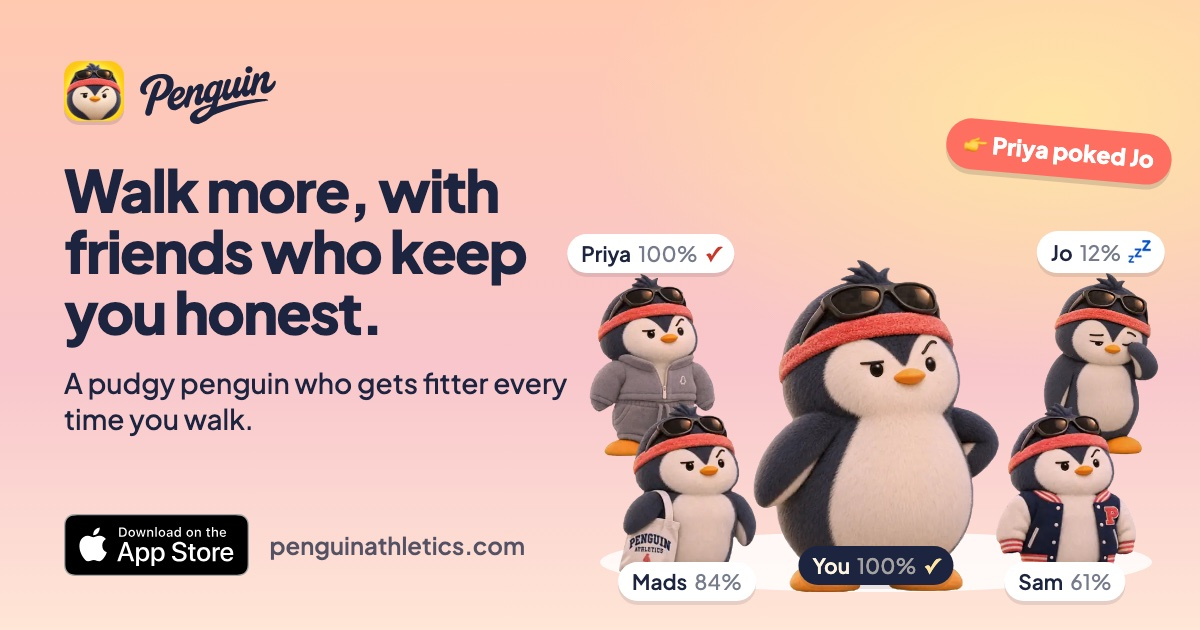
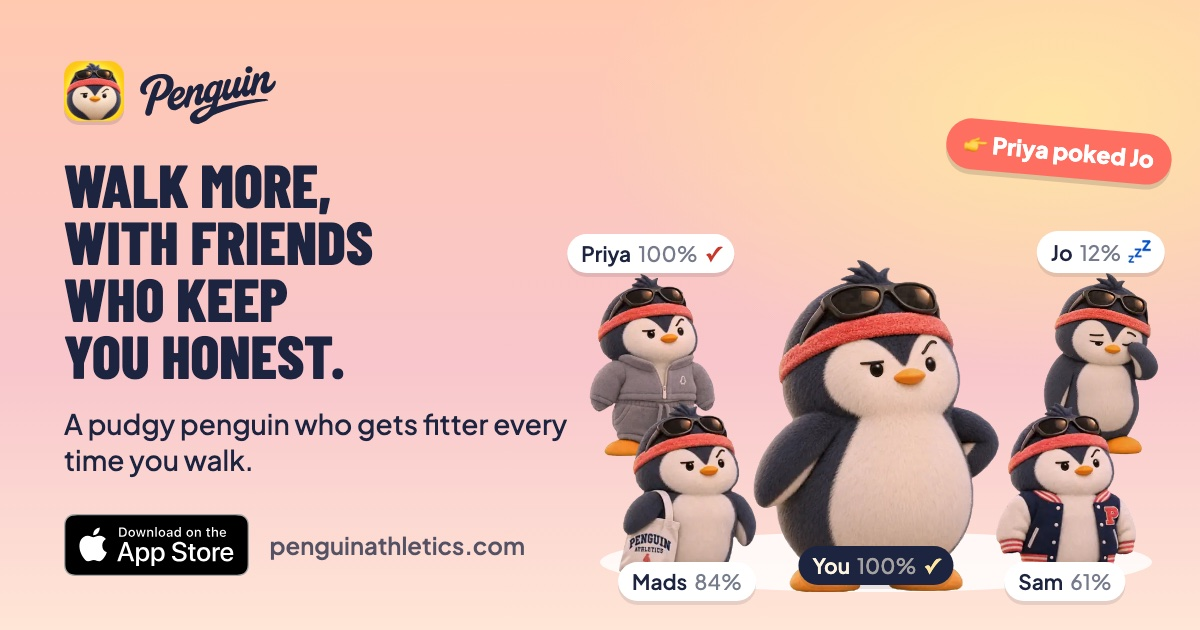
Share images: Barlow Condensed caps headlines on main and invite
The main and invite share images set their headlines like the home hero
(Barlow Condensed 800, uppercase, phrase breaks). Links move to ?v=4 so
previews refetch. Learn images keep Plus Jakarta Sans titles.

Changed region(s): [[0.0308, 0.2413, 0.4933, 0.754]]

diff --git a/public/index.html b/public/index.html
@@ -22,7 +22,7 @@
   <meta property="og:title" content="Penguin · Walk More, With Friends Who Keep You Honest">
   <meta property="og:description" content="A funny step counter for iPhone. Walk and a smug, overconfident penguin gets stronger, struts harder, and roasts the couch, not you. Now on the App Store.">
   <meta property="og:url" content="https://penguinathletics.com/">
-  <meta property="og:image" content="https://penguinathletics.com/assets/og-image.jpg?v=3">
+  <meta property="og:image" content="https://penguinathletics.com/assets/og-image.jpg?v=4">
   <meta property="og:image:type" content="image/jpeg">
   <meta property="og:image:width" content="1200">
   <meta property="og:image:height" content="630">
@@ -30,7 +30,7 @@
   <meta name="twitter:card" content="summary_large_image">
   <meta name="twitter:title" content="Penguin · Walk More, With Friends Who Keep You Honest">
   <meta name="twitter:description" content="A funny step counter for iPhone. Walk and a smug, overconfident penguin gets stronger, struts harder, and roasts the couch, not you. Now on the App Store.">
-  <meta name="twitter:image" content="https://penguinathletics.com/assets/og-image.jpg?v=3">
+  <meta name="twitter:image" content="https://penguinathletics.com/assets/og-image.jpg?v=4">
   <meta name="twitter:image:alt" content="Penguin: walk more, with friends who keep you honest. A pudgy cartoon penguin and his walking club, with goal check-ins and a poke.">
   <script type="application/ld+json">
   {
@@ -79,7 +79,7 @@
         },
         "primaryImageOfPage": {
           "@type": "ImageObject",
-          "url": "https://penguinathletics.com/assets/og-image.jpg?v=3"
+          "url": "https://penguinathletics.com/assets/og-image.jpg?v=4"
         },
         "dateModified": "2026-11-05"
       },
@@ -116,10 +116,10 @@
           }
         ],
         "url": "https://penguinathletics.com/",
-        "image": "https://penguinathletics.com/assets/og-image.jpg?v=3",
+        "image": "https://penguinathletics.com/assets/og-image.jpg?v=4",
         "downloadUrl": "https://apps.apple.com/us/app/penguin-step-counter-pedometer/id6831137240",
         "installUrl": "https://apps.apple.com/us/app/penguin-step-counter-pedometer/id6831137240",
-        "screenshot": "https://penguinathletics.com/assets/og-image.jpg?v=3",
+        "screenshot": "https://penguinathletics.com/assets/og-image.jpg?v=4",
         "inLanguage": "en-US",
         "keywords": "pedometer app, step counter, step tracker, walking app, funny fitness app, iPhone pedometer, Apple Health steps, Apple Watch steps, daily step goal, walking motivation, walking game, penguin app, Penguin Athletics",
         "featureList": [

diff --git a/public/privacy/index.html b/public/privacy/index.html
@@ -21,7 +21,7 @@
   <meta property="og:title" content="Privacy Policy · Penguin Pedometer App">
   <meta property="og:description" content="How the Penguin pedometer app handles your data: step counts from Apple Health stay on your iPhone. No accounts, no ads, no cross-app tracking.">
   <meta property="og:url" content="https://penguinathletics.com/privacy/">
-  <meta property="og:image" content="https://penguinathletics.com/assets/og-image.jpg?v=3">
+  <meta property="og:image" content="https://penguinathletics.com/assets/og-image.jpg?v=4">
   <meta property="og:image:type" content="image/jpeg">
   <meta property="og:image:width" content="1200">
   <meta property="og:image:height" content="630">
@@ -29,7 +29,7 @@
   <meta name="twitter:card" content="summary_large_image">
   <meta name="twitter:title" content="Privacy Policy · Penguin Pedometer App">
   <meta name="twitter:description" content="How the Penguin pedometer app handles your data: step counts from Apple Health stay on your iPhone. No accounts, no ads, no cross-app tracking.">
-  <meta name="twitter:image" content="https://penguinathletics.com/assets/og-image.jpg?v=3">
+  <meta name="twitter:image" content="https://penguinathletics.com/assets/og-image.jpg?v=4">
   <meta name="twitter:image:alt" content="Penguin: walk more, with friends who keep you honest. A pudgy cartoon penguin and his walking club, with goal check-ins and a poke.">
   <script type="application/ld+json">
   {
@@ -74,7 +74,7 @@
         },
         "primaryImageOfPage": {
           "@type": "ImageObject",
-          "url": "https://penguinathletics.com/assets/og-image.jpg?v=3"
+          "url": "https://penguinathletics.com/assets/og-image.jpg?v=4"
         },
         "dateModified": "2026-11-11"
       },

diff --git a/public/support/index.html b/public/support/index.html
@@ -21,7 +21,7 @@
   <meta property="og:title" content="Support · Penguin Pedometer App">
   <meta property="og:description" content="Help with the Penguin step counter app: missing step data, walk mode, widgets, Waddles, and how to reach us.">
   <meta property="og:url" content="https://penguinathletics.com/support/">
-  <meta property="og:image" content="https://penguinathletics.com/assets/og-image.jpg?v=3">
+  <meta property="og:image" content="https://penguinathletics.com/assets/og-image.jpg?v=4">
   <meta property="og:image:type" content="image/jpeg">
   <meta property="og:image:width" content="1200">
   <meta property="og:image:height" content="630">
@@ -29,7 +29,7 @@
   <meta name="twitter:card" content="summary_large_image">
   <meta name="twitter:title" content="Support · Penguin Pedometer App">
   <meta name="twitter:description" content="Help with the Penguin step counter app: missing step data, walk mode, widgets, Waddles, and how to reach us.">
-  <meta name="twitter:image" content="https://penguinathletics.com/assets/og-image.jpg?v=3">
+  <meta name="twitter:image" content="https://penguinathletics.com/assets/og-image.jpg?v=4">
   <meta name="twitter:image:alt" content="Penguin: walk more, with friends who keep you honest. A pudgy cartoon penguin and his walking club, with goal check-ins and a poke.">
   <script type="application/ld+json">
   {
@@ -74,7 +74,7 @@
         },
         "primaryImageOfPage": {
           "@type": "ImageObject",
-          "url": "https://penguinathletics.com/assets/og-image.jpg?v=3"
+          "url": "https://penguinathletics.com/assets/og-image.jpg?v=4"
         },
         "dateModified": "2026-11-05"
       },

diff --git a/public/terms/index.html b/public/terms/index.html
@@ -21,7 +21,7 @@
   <meta property="og:title" content="Terms of Service · Penguin Pedometer App">
   <meta property="og:description" content="The terms for using the Penguin pedometer app for iPhone and the penguinathletics.com website.">
   <meta property="og:url" content="https://penguinathletics.com/terms/">
-  <meta property="og:image" content="https://penguinathletics.com/assets/og-image.jpg?v=3">
+  <meta property="og:image" content="https://penguinathletics.com/assets/og-image.jpg?v=4">
   <meta property="og:image:type" content="image/jpeg">
   <meta property="og:image:width" content="1200">
   <meta property="og:image:height" content="630">
@@ -29,7 +29,7 @@
   <meta name="twitter:card" content="summary_large_image">
   <meta name="twitter:title" content="Terms of Service · Penguin Pedometer App">
   <meta name="twitter:description" content="The terms for using the Penguin pedometer app for iPhone and the penguinathletics.com website.">
-  <meta name="twitter:image" content="https://penguinathletics.com/assets/og-image.jpg?v=3">
+  <meta name="twitter:image" content="https://penguinathletics.com/assets/og-image.jpg?v=4">
   <meta name="twitter:image:alt" content="Penguin: walk more, with friends who keep you honest. A pudgy cartoon penguin and his walking club, with goal check-ins and a poke.">
   <script type="application/ld+json">
   {
@@ -74,7 +74,7 @@
         },
         "primaryImageOfPage": {
           "@type": "ImageObject",
-          "url": "https://penguinathletics.com/assets/og-image.jpg?v=3"
+          "url": "https://penguinathletics.com/assets/og-image.jpg?v=4"
         },
         "dateModified": "2026-11-11"
       },

diff --git a/scripts/og/og.html b/scripts/og/og.html
@@ -12,6 +12,11 @@
     src: url("../../public/assets/fonts/plus-jakarta-sans-latin-wght.woff2") format("woff2");
     font-weight: 200 800;
   }
+  @font-face {
+    font-family: "Barlow Condensed";
+    src: url("../../public/assets/fonts/barlow-condensed-latin-800.woff2") format("woff2");
+    font-weight: 800;
+  }
   * { box-sizing: border-box; margin: 0; }
   html, body { width: 1200px; height: 630px; overflow: hidden; }
   body {
@@ -28,8 +33,9 @@
   /* Script wordmark; its swoosh dips low, so drop it a touch to sit level with the icon. */
   .brand .word { height: 62px; width: auto; margin-top: 8px; }
 
-  .copy { position: absolute; top: 160px; left: 64px; width: 540px; }
-  h1 { font-size: 58px; font-weight: 800; line-height: 1.05; letter-spacing: -0.03em; }
+  .copy { position: absolute; top: 156px; left: 64px; width: 520px; }
+  /* Same display treatment as the home hero: Barlow Condensed 800 caps, phrase breaks. */
+  h1 { font-family: "Barlow Condensed", sans-serif; font-size: 60px; font-weight: 800; line-height: 0.95; text-transform: uppercase; }
   .sub { margin-top: 22px; font-size: 28px; font-weight: 500; line-height: 1.3; }
 
   .cta { position: absolute; left: 64px; bottom: 54px; display: flex; align-items: center; gap: 20px; }
@@ -74,7 +80,7 @@
   </div>
 
   <div class="copy">
-    <h1>Walk more, with friends who keep you honest.</h1>
+    <h1>Walk more,<br> with friends<br> who keep<br> you honest.</h1>
     <p class="sub">A pudgy penguin who gets fitter every time you walk.</p>
   </div>
 

diff --git a/scripts/og/og-join.html b/scripts/og/og-join.html
@@ -12,6 +12,11 @@
     src: url("../../public/assets/fonts/plus-jakarta-sans-latin-wght.woff2") format("woff2");
     font-weight: 200 800;
   }
+  @font-face {
+    font-family: "Barlow Condensed";
+    src: url("../../public/assets/fonts/barlow-condensed-latin-800.woff2") format("woff2");
+    font-weight: 800;
+  }
   * { box-sizing: border-box; margin: 0; }
   html, body { width: 1200px; height: 630px; overflow: hidden; }
   body {
@@ -29,7 +34,8 @@
   .brand .word { height: 62px; width: auto; margin-top: 8px; }
 
   .copy { position: absolute; top: 160px; left: 64px; width: 520px; }
-  h1 { font-size: 74px; font-weight: 800; line-height: 1.05; letter-spacing: -0.03em; }
+  /* Same display treatment as the home hero: Barlow Condensed 800 caps, phrase breaks. */
+  h1 { font-family: "Barlow Condensed", sans-serif; font-size: 76px; font-weight: 800; line-height: 0.95; text-transform: uppercase; }
   .sub { margin-top: 22px; font-size: 28px; font-weight: 500; line-height: 1.3; }
 
   .cta { position: absolute; left: 64px; bottom: 54px; display: flex; align-items: center; gap: 20px; }
@@ -74,7 +80,7 @@
   </div>
 
   <div class="copy">
-    <h1>You're invited to the waddle.</h1>
+    <h1>You're invited<br> to the waddle.</h1>
     <p class="sub">Walk with friends. See who hit their goal. Poke the slackers.</p>
   </div>
 

diff --git a/public/join/index.html b/public/join/index.html
@@ -17,14 +17,14 @@
   <meta property="og:url" content="https://penguinathletics.com/join/">
   <meta property="og:title" content="You're invited to my waddle on Penguin">
   <meta property="og:description" content="Walk with friends. See who hit their goal. Poke the slackers.">
-  <meta property="og:image" content="https://penguinathletics.com/assets/og/join.jpg?v=3">
+  <meta property="og:image" content="https://penguinathletics.com/assets/og/join.jpg?v=4">
   <meta property="og:image:width" content="1200">
   <meta property="og:image:height" content="630">
   <meta property="og:image:alt" content="Five cartoon penguins in a walking club, with goal check-ins and a poke. You're invited to the waddle.">
   <meta name="twitter:card" content="summary_large_image">
   <meta name="twitter:title" content="You're invited to my waddle on Penguin">
   <meta name="twitter:description" content="Walk with friends. See who hit their goal. Poke the slackers.">
-  <meta name="twitter:image" content="https://penguinathletics.com/assets/og/join.jpg?v=3">
+  <meta name="twitter:image" content="https://penguinathletics.com/assets/og/join.jpg?v=4">
 </head>
 <body>
 <main class="lost join">

diff --git a/public/404.html b/public/404.html
@@ -13,7 +13,7 @@
   <link rel="stylesheet" href="/assets/css/site.css">
   <meta property="og:site_name" content="Penguin Athletics">
   <meta property="og:title" content="Page not found · Penguin">
-  <meta property="og:image" content="https://penguinathletics.com/assets/og-image.jpg?v=3">
+  <meta property="og:image" content="https://penguinathletics.com/assets/og-image.jpg?v=4">
   <meta name="twitter:card" content="summary_large_image">
 </head>
 <body>
